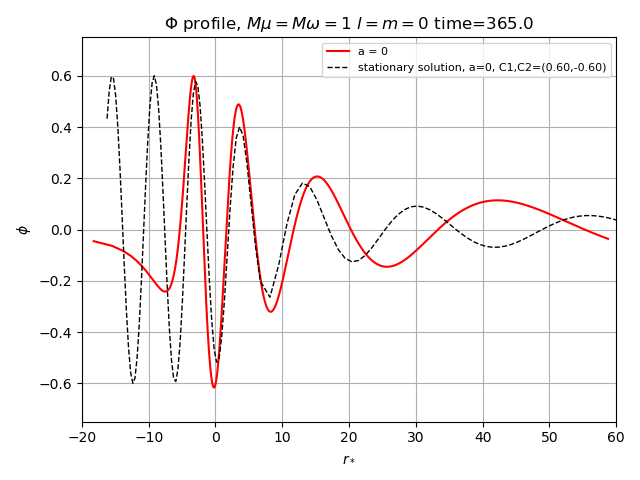
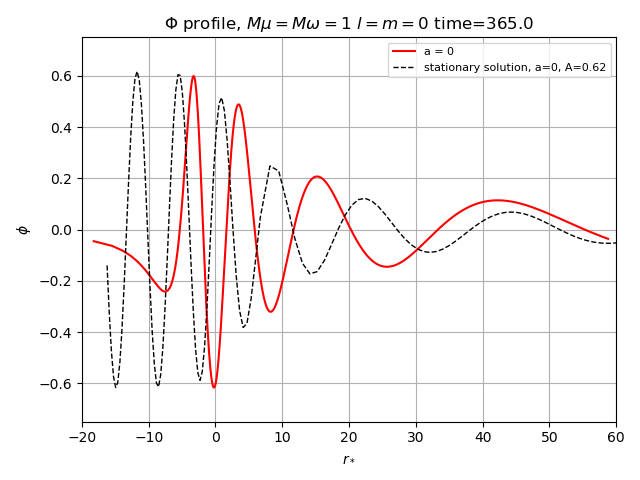
new plots

diff --git a/Analysis/scripts/radial_profile_phi_vs_HeunCRfunc.py b/Analysis/scripts/radial_profile_phi_vs_HeunCRfunc.py
@@ -88,6 +88,7 @@ for i in range(0, len(a_list)):
 	R_list.append(R)
 	phi_list.append(phi)
 	print("got profile for a=" + a_list[i], flush=True)
+	print("t = ", t)	
 
 # Stationary solution
 Kerrlib = ctypes.cdll.LoadLibrary('/home/dc-bamb1/GRChombo/Source/utils/KerrBH_Rfunc_lib.so')
@@ -108,14 +109,6 @@ colours = ['r-', 'b-', 'g-']
 colours2 = ['k--', 'm--', 'c--']
 # make  plot 
 
-def Stationary_sol(r, C2):
-	A = 0.6
-	omega = mu
-	H1 = HeunC(0, 0, float(a), omega, r)
-	H2 = HeunC(0, 1, float(a), omega, r)
-	result = np.sqrt(A**2 - C2**2)*H1 + C2*H2
-	return result
-
 for i in range(0, len(a_list)):
 	a = a_list[i]
 	r_plus = 1 + math.sqrt(1 - float(a)**2)
@@ -130,16 +123,20 @@ for i in range(0, len(a_list)):
 	plt.plot(x, phi, colours[i], markersize=2, label="a = " + a_list[i])
 	###
 	# --- fit stationary solution(s)
-	popt = (0.15)
-	popt, pconv = curve_fit(Stationary_sol, r, phi, p0=popt)
-	c1 = 0.6
-	c2 = popt[0]
 	r_plot_1 = r_plus + np.exp(np.linspace(r_star[0]/r_plus, 1, 64))
 	r_plot_2 = np.linspace(r_plot_1[-1],60,64)[1:]
 	r_plot = np.concatenate((r_plot_1,r_plot_2))
 	r_star_plot = r_star_func(r_plot)
+	A = np.max(np.abs(phi))
+	def Stationary_sol(r, phase):
+		omega = mu
+		HR = HeunC(0, 0, float(a), omega, r)
+		HI = HeunC(0, 1, float(a), omega, r)
+		result = -A*(HR*np.sin(omega*t-phase) - HI*np.cos(omega*t-phase))
+		return result	
+	popt, pconv = curve_fit(Stationary_sol, r, phi, p0=(0))
 	phi_fit = Stationary_sol(r_plot, popt[0])
-	plt.plot(r_star_plot, phi_fit, colours2[i], linewidth=1, label="stationary solution, a={:s}, C1,C2=({:.2f},{:.2f})".format(a, c1, c2))		
+	plt.plot(r_star_plot, phi_fit, colours2[i], linewidth=1, label="stationary solution, a={:s}, A={:.2f} phase={:.2}".format(a, A, popt[0]))		
 plt.ylabel("$\\phi$")
 plt.legend(fontsize=8)
 plt.xlim((-20, 60))
